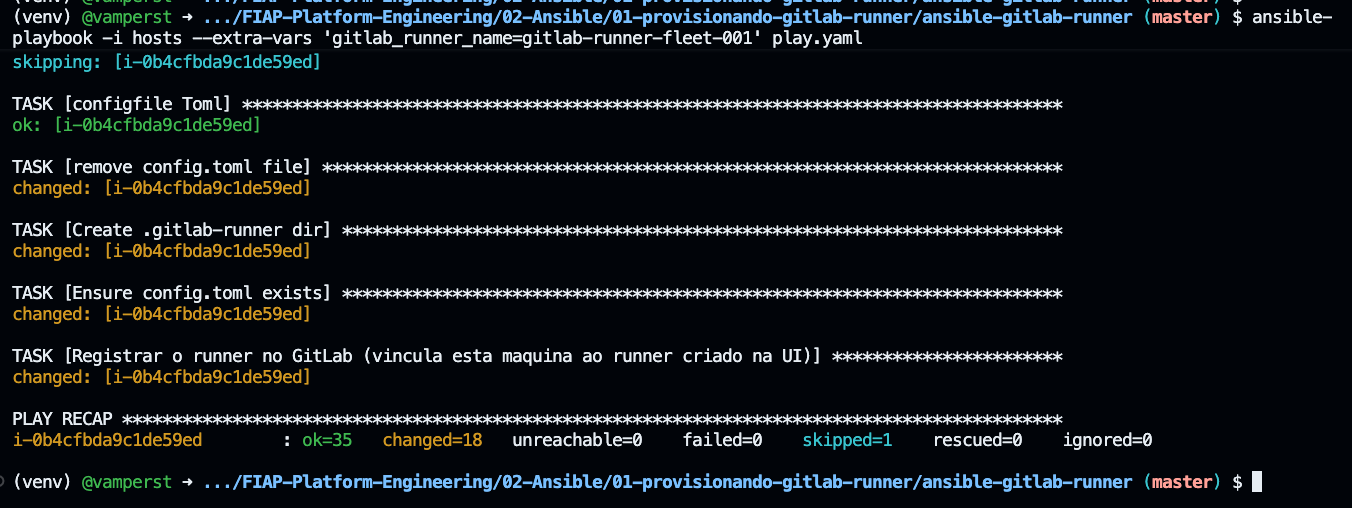
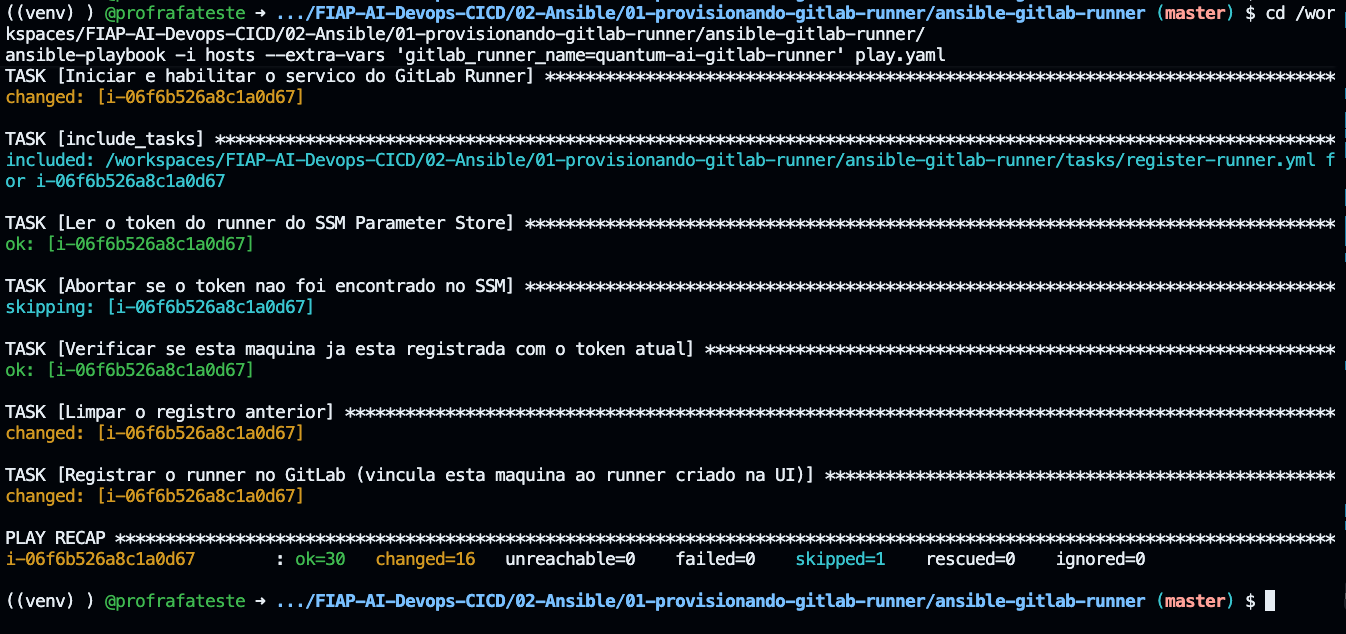
docs(ansible): atualiza os prints do lab do GitLab Runner
Troca os prints que mostravam o caminho antigo do repositorio, o nome antigo do runner e o recap anterior do playbook, e remove os marcadores TROCAR-IMAGEM correspondentes. Retira o gitlab-3.png, que ficou sem uso.

Changed region(s): [[0.0, 0.0, 1.0, 0.9744], [0.9985, 0.9154, 1.0, 0.9744], [0.9985, 0.561, 1.0, 0.5906]]

diff --git a/02-Ansible/01-provisionando-gitlab-runner/README.md b/02-Ansible/01-provisionando-gitlab-runner/README.md
@@ -299,7 +299,7 @@ ssh-keygen -t rsa -b 2048 -C "gitlab key" -f /home/vscode/.ssh/gitlab
 
 **5.2.** Pressione **Enter duas vezes** para indicar que não quer senha para a chave.
 
-<!-- TROCAR-IMAGEM: img/gitlab-1.png | motivo: prompt mostra o caminho antigo /workspaces/FIAP-Platform-Engineering | capturar: saída do ssh-keygen no Codespaces em /workspaces/FIAP-AI-Devops-CICD/02-Ansible/01-provisionando-gitlab-runner -->
+
 ![](img/gitlab-1.png)
 
 **5.3.** Abra a parte **pública** da chave no editor do Codespaces e copie todo o conteúdo para a área de transferência do seu computador:
@@ -308,7 +308,6 @@ ssh-keygen -t rsa -b 2048 -C "gitlab key" -f /home/vscode/.ssh/gitlab
 code /home/vscode/.ssh/gitlab.pub
 ```
 
-<!-- TROCAR-IMAGEM: img/gitlab-1.1.png | motivo: terminal mostra o caminho antigo FIAP-Platform-Engineering | capturar: gitlab.pub aberto no editor do Codespaces do repositório FIAP-AI-Devops-CICD -->
 ![](img/gitlab-1.1.png)
 
 **5.4.** Acesse a página de chaves SSH do seu GitLab: [Chaves SSH do GitLab](https://gitlab.com/-/user_settings/ssh_keys) e clique em **"Add new key"**.
@@ -363,9 +362,6 @@ Ao final desta etapa, você terá um projeto `primeiro-projeto` no GitLab com o 
 
 **6.** No **console web do GitLab**, crie um novo projeto. Acesse [Novo projeto](https://gitlab.com/projects/new) e clique em **Create blank project**.
 
-<!-- NOVA-IMAGEM: img/gitlab-3.0.png | capturar: página https://gitlab.com/projects/new com o cartão "Create blank project" destacado | depois de salvar o arquivo, descomente a linha abaixo -->
-<!-- ![Página Novo projeto do GitLab com o cartão Create blank project destacado](img/gitlab-3.0.png) -->
-
 ---
 
 <a id="passo-7"></a>
@@ -374,7 +370,6 @@ Ao final desta etapa, você terá um projeto `primeiro-projeto` no GitLab com o 
 
 ![](img/gitlab-3.1.png)
 
-<!-- TROCAR-IMAGEM: img/gitlab-3.png | motivo: mostra "Initialize repository with a README" MARCADO, o contrário do que o passo 7 pede; mantida sem referência até a troca | capturar: não precisa, a img/gitlab-3.1.png já mostra o estado certo -->
 
 ---
 
@@ -451,7 +446,7 @@ git branch -M master
 git push -uf origin master
 ```
 
-<!-- TROCAR-IMAGEM: img/gitlab-4.png | motivo: fluxo antigo (prompt voclabs, só sqs.tf e state.tf, push sem -f) | capturar: git commit + git push -uf origin master do primeiro-projeto atual no Codespaces -->
+
 ![](img/gitlab-4.png)
 
 ![](img/gitlab-5.png)
@@ -744,7 +739,6 @@ terraform output -raw instance_id; echo
 > i-0abc123def4567890
 > ```
 
-<!-- TROCAR-IMAGEM: img/gitlab-11.png | motivo: prompt mostra o caminho antigo FIAP-Platform-Engineering | capturar: terraform output -raw instance_id no repositório FIAP-AI-Devops-CICD -->
 ![](img/gitlab-11.png)
 
 ### Checkpoint
@@ -799,7 +793,6 @@ ansible_aws_ssm_region=us-east-1
 ansible_become=true
 ```
 
-<!-- TROCAR-IMAGEM: img/gitlab-12.png | motivo: prompt mostra o caminho antigo FIAP-Platform-Engineering | capturar: o mesmo bloco do passo 24 rodado no repositório FIAP-AI-Devops-CICD, com o cat hosts preenchido -->
 ![](img/gitlab-12.png)
 
 <details>
@@ -846,7 +839,7 @@ O que importa é `failed=0` e `unreachable=0`. O `changed=16` diz que o Ansible 
 > [!NOTE]
 > Logo no começo do registro, o playbook executa a task **"Ler o token do runner do SSM Parameter Store"**. Se você não gravou o token (passo 16), o playbook **para** com uma mensagem clara dizendo exatamente qual comando rodar — é o comportamento esperado (falhar cedo, não registrar um runner quebrado).
 
-<!-- TROCAR-IMAGEM: img/gitlab-14.png | motivo: caminho antigo FIAP-Platform-Engineering, nome gitlab-runner-fleet-001 e recap antigo (ok=35 changed=18) | capturar: fim do ansible-playbook com gitlab_runner_name=quantum-ai-gitlab-runner e o recap ok=30 changed=16 failed=0 -->
+
 ![](img/gitlab-14.png)
 
 <details>
@@ -885,7 +878,6 @@ O Ansible não conseguiu chegar na EC2 via SSM. Verifique, na ordem:
 
 **26.** Volte à mesma página do GitLab onde você pegou o token (**Settings → CI/CD → Runners**, aba **Assigned project runners**). Agora há um runner **Online**, com as tags `shell` e `terraform`.
 
-<!-- TROCAR-IMAGEM: img/gitlab-13.png | motivo: dono aparece como primeiro-projeto-test, não primeiro-projeto | capturar: aba Assigned project runners do primeiro-projeto com o runner Online e as tags shell, terraform -->
 ![](img/gitlab-13.png)
 
 <details>
